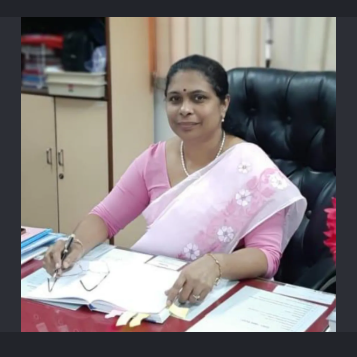
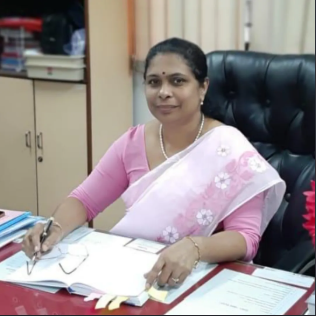
Finalize SHMS homepage and institutional branding

diff --git a/app/templates/base.html b/app/templates/base.html
@@ -18,12 +18,12 @@
 
   <!-- Institutional Top Bar -->
   <div class="top-bar">
-    <div class="top-bar-title">AGNEL TECHNICAL EDUCATION COMPLEX &bull; VASHI, NAVI MUMBAI</div>
+    <div class="top-bar-title">Father Agnel Polytechnic &bull; VASHI, NAVI MUMBAI</div>
     <div>
       {% if current_user.is_authenticated %}
         <span>Signed in as <strong>{{ current_user.name }}</strong> ({{ current_user.role }})</span>
       {% else %}
-        <span>College Seminar Reservation Portal</span>
+        <span>Tawde Atharva and Advait - AN</span>
       {% endif %}
     </div>
   </div>
@@ -33,7 +33,7 @@
     <div class="nav-container">
       <div class="brand-wrapper">
         <a href="{{ url_for('main.index') }}" style="display: flex; align-items: center; gap: 12px; text-decoration: none; min-width: 0;">
-          <img src="{{ url_for('static', filename='images/agnel-polytechnic-logo.jpeg') }}" 
+          <img src="{{ url_for('static', filename='images/agnel-polytechnic-logo.webp') }}" 
                alt="Agnel Polytechnic Logo" 
                class="brand-logo"
                onerror="this.style.display='none'">
@@ -136,7 +136,7 @@
       </div>
     </div>
     <div class="footer-bottom">
-      &copy; {{ current_year }} Agnel Polytechnic, Vashi. All Rights Reserved &bull; Seminar Hall Management System
+      &copy; {{ current_year }} <a href="https://apv.ac.in/"> Agnel Polytechnic, Vashi. </a> All Rights Reserved &bull; Seminar Hall Management System
     </div>
   </footer>
 
